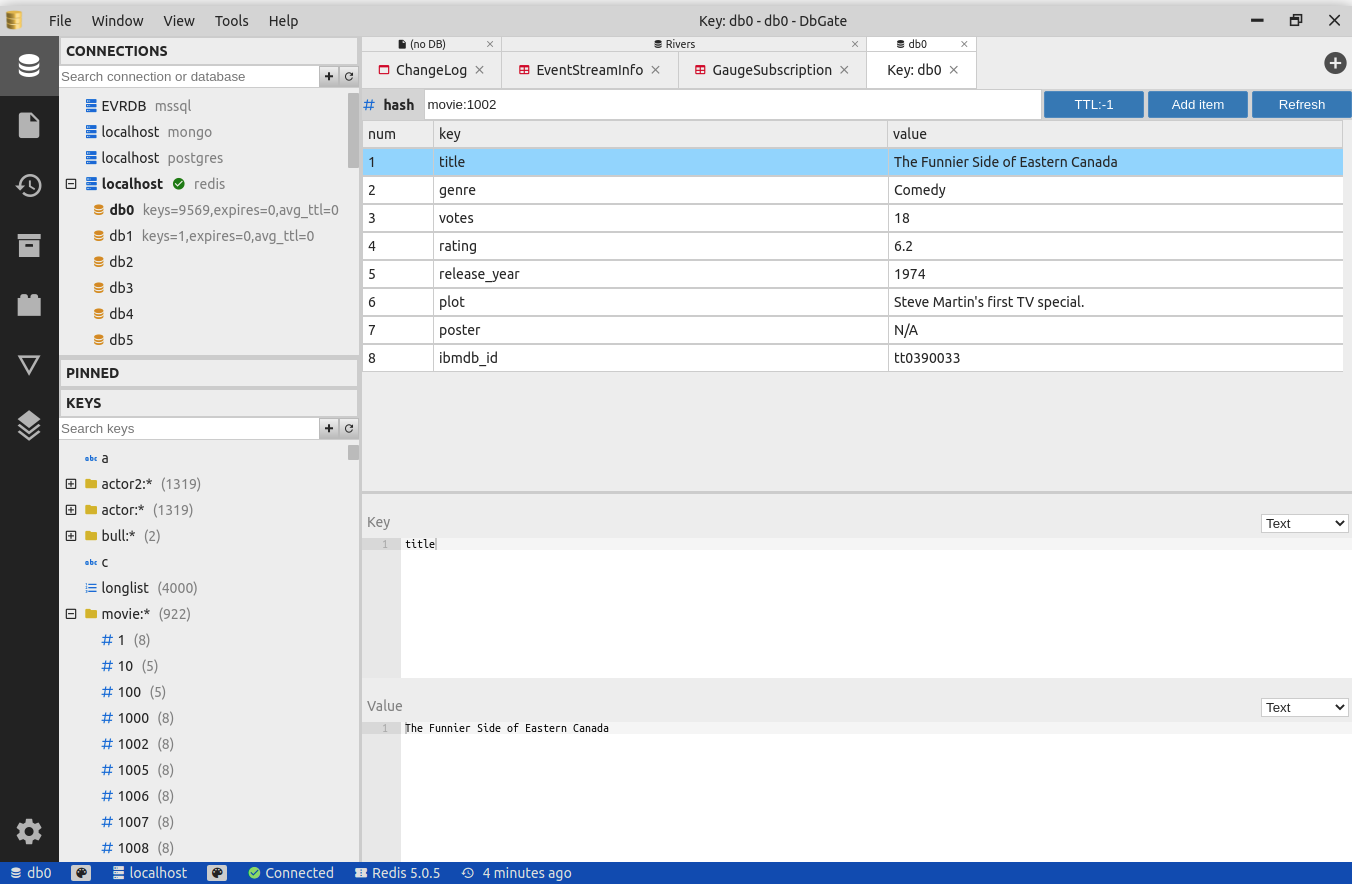
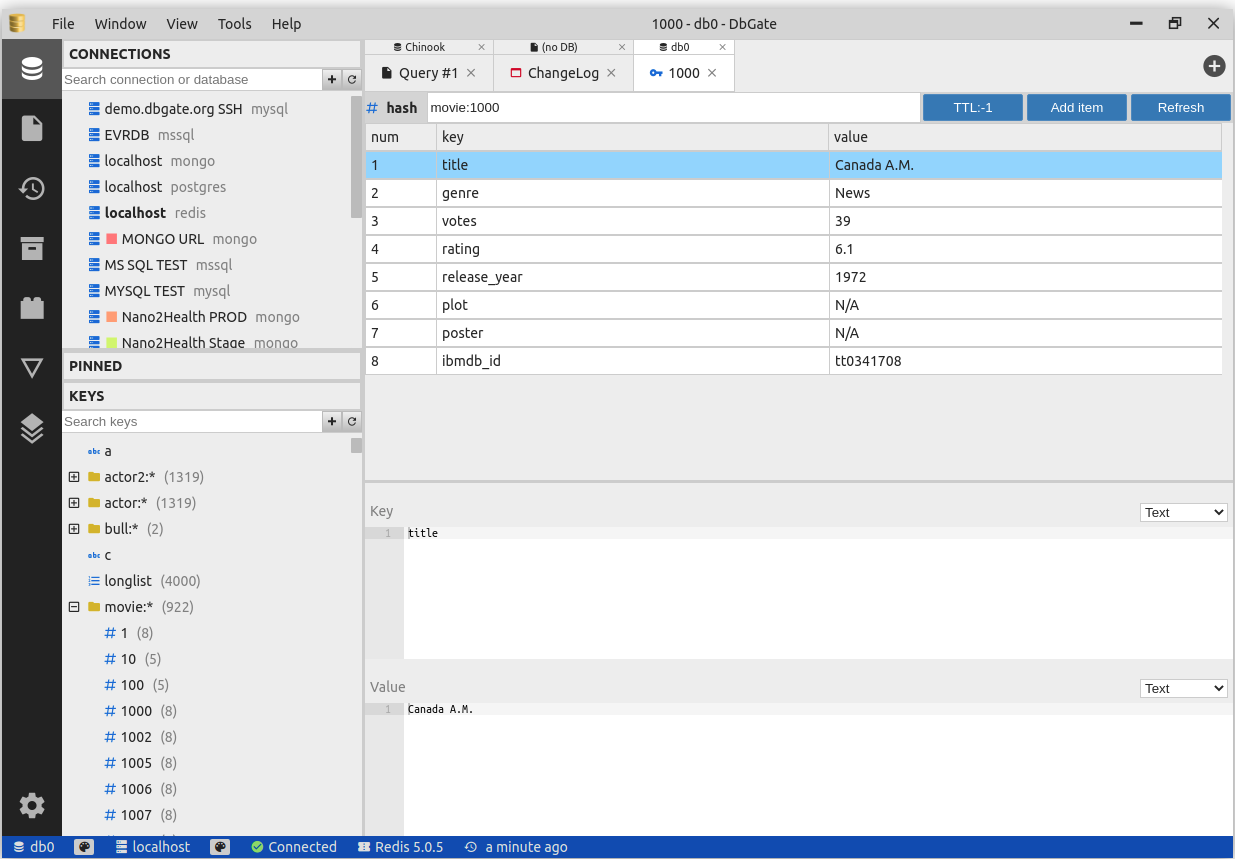
redis client screenshot

Changed region(s): [[0.0, 0.0, 1.0, 1.0], [0.2769, 0.787, 0.4615, 0.8475]]

diff --git a/_includes/client.html b/_includes/client.html
@@ -1,7 +1,11 @@
 DbGate for {{include.name}} is free and open source database manager for Linux, Windows and MacOS. Also runs in Web browser,
 when started from Docker container.
 
+{% if include.screenshot %}
+<img src="/assets/screenshots/{{include.screenshot}}" />
+{% else %}
 {% include carousel.html %}
+{% endif %}
 
 <h2>{{include.name}} Database Manager Features</h2>
 

diff --git a/_database/mongodb-client.md b/_database/mongodb-client.md
@@ -11,4 +11,4 @@ isClient: 1
 download_button: true
 ---
 
-{% include client.html name='MongoDB' mongo='1' %}
+{% include client.html name='MongoDB' mongo='1' screenshot='mongosave.png' %}

diff --git a/_database/redis-client.md b/_database/redis-client.md
@@ -11,4 +11,4 @@ isClient: 1
 download_button: true
 ---
 
-{% include client.html name='Redis' redis='1' %}
+{% include client.html name='Redis' redis='1' screenshot='redis.png' %}
